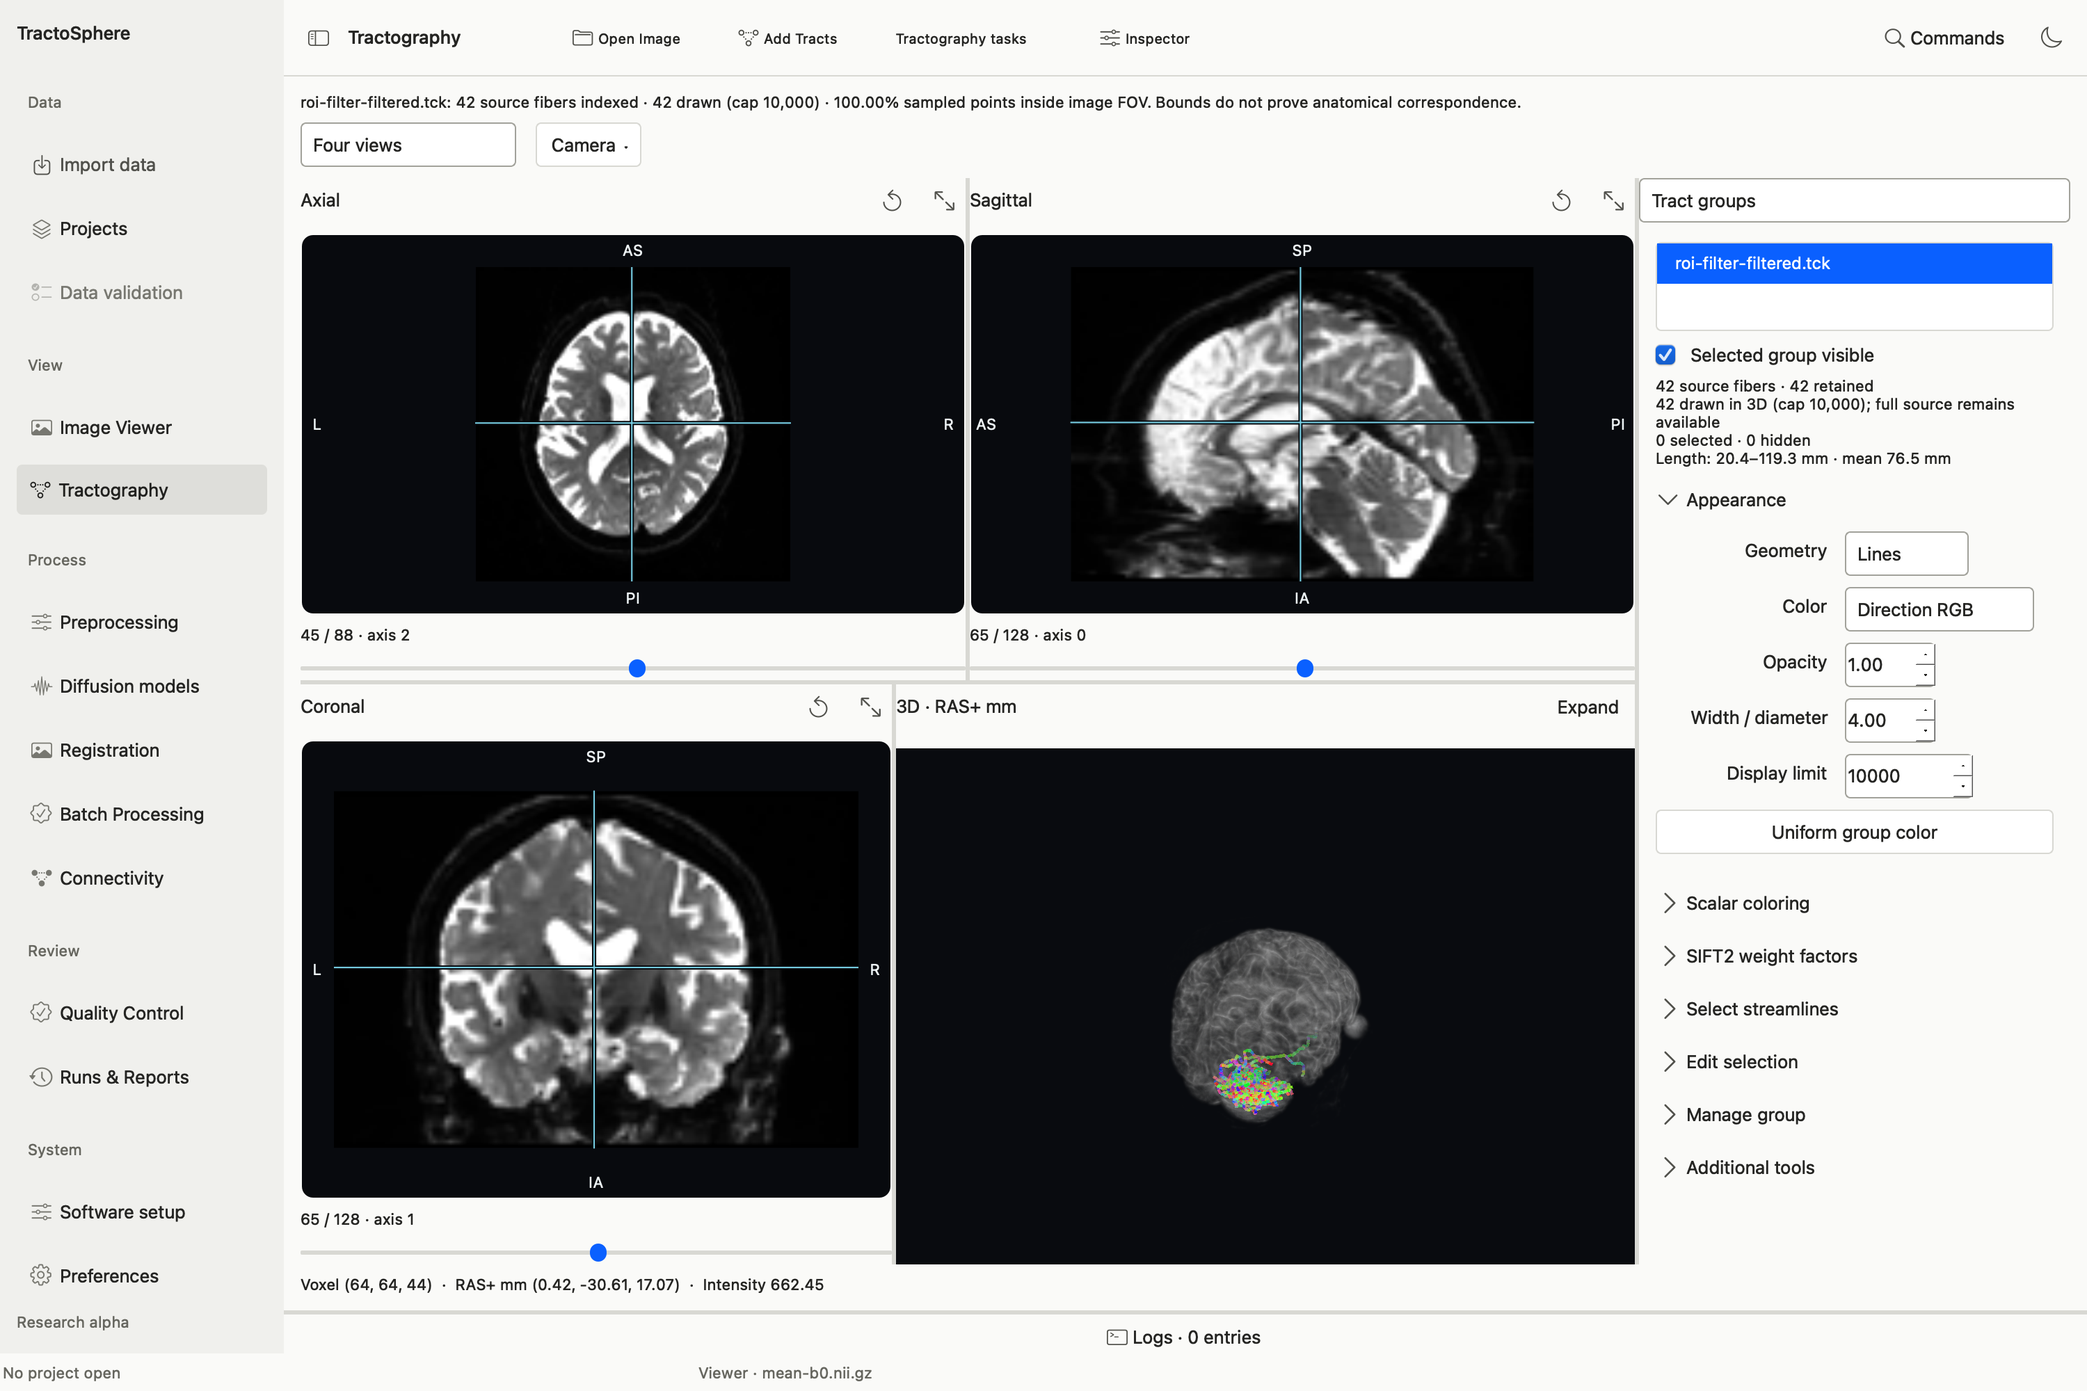
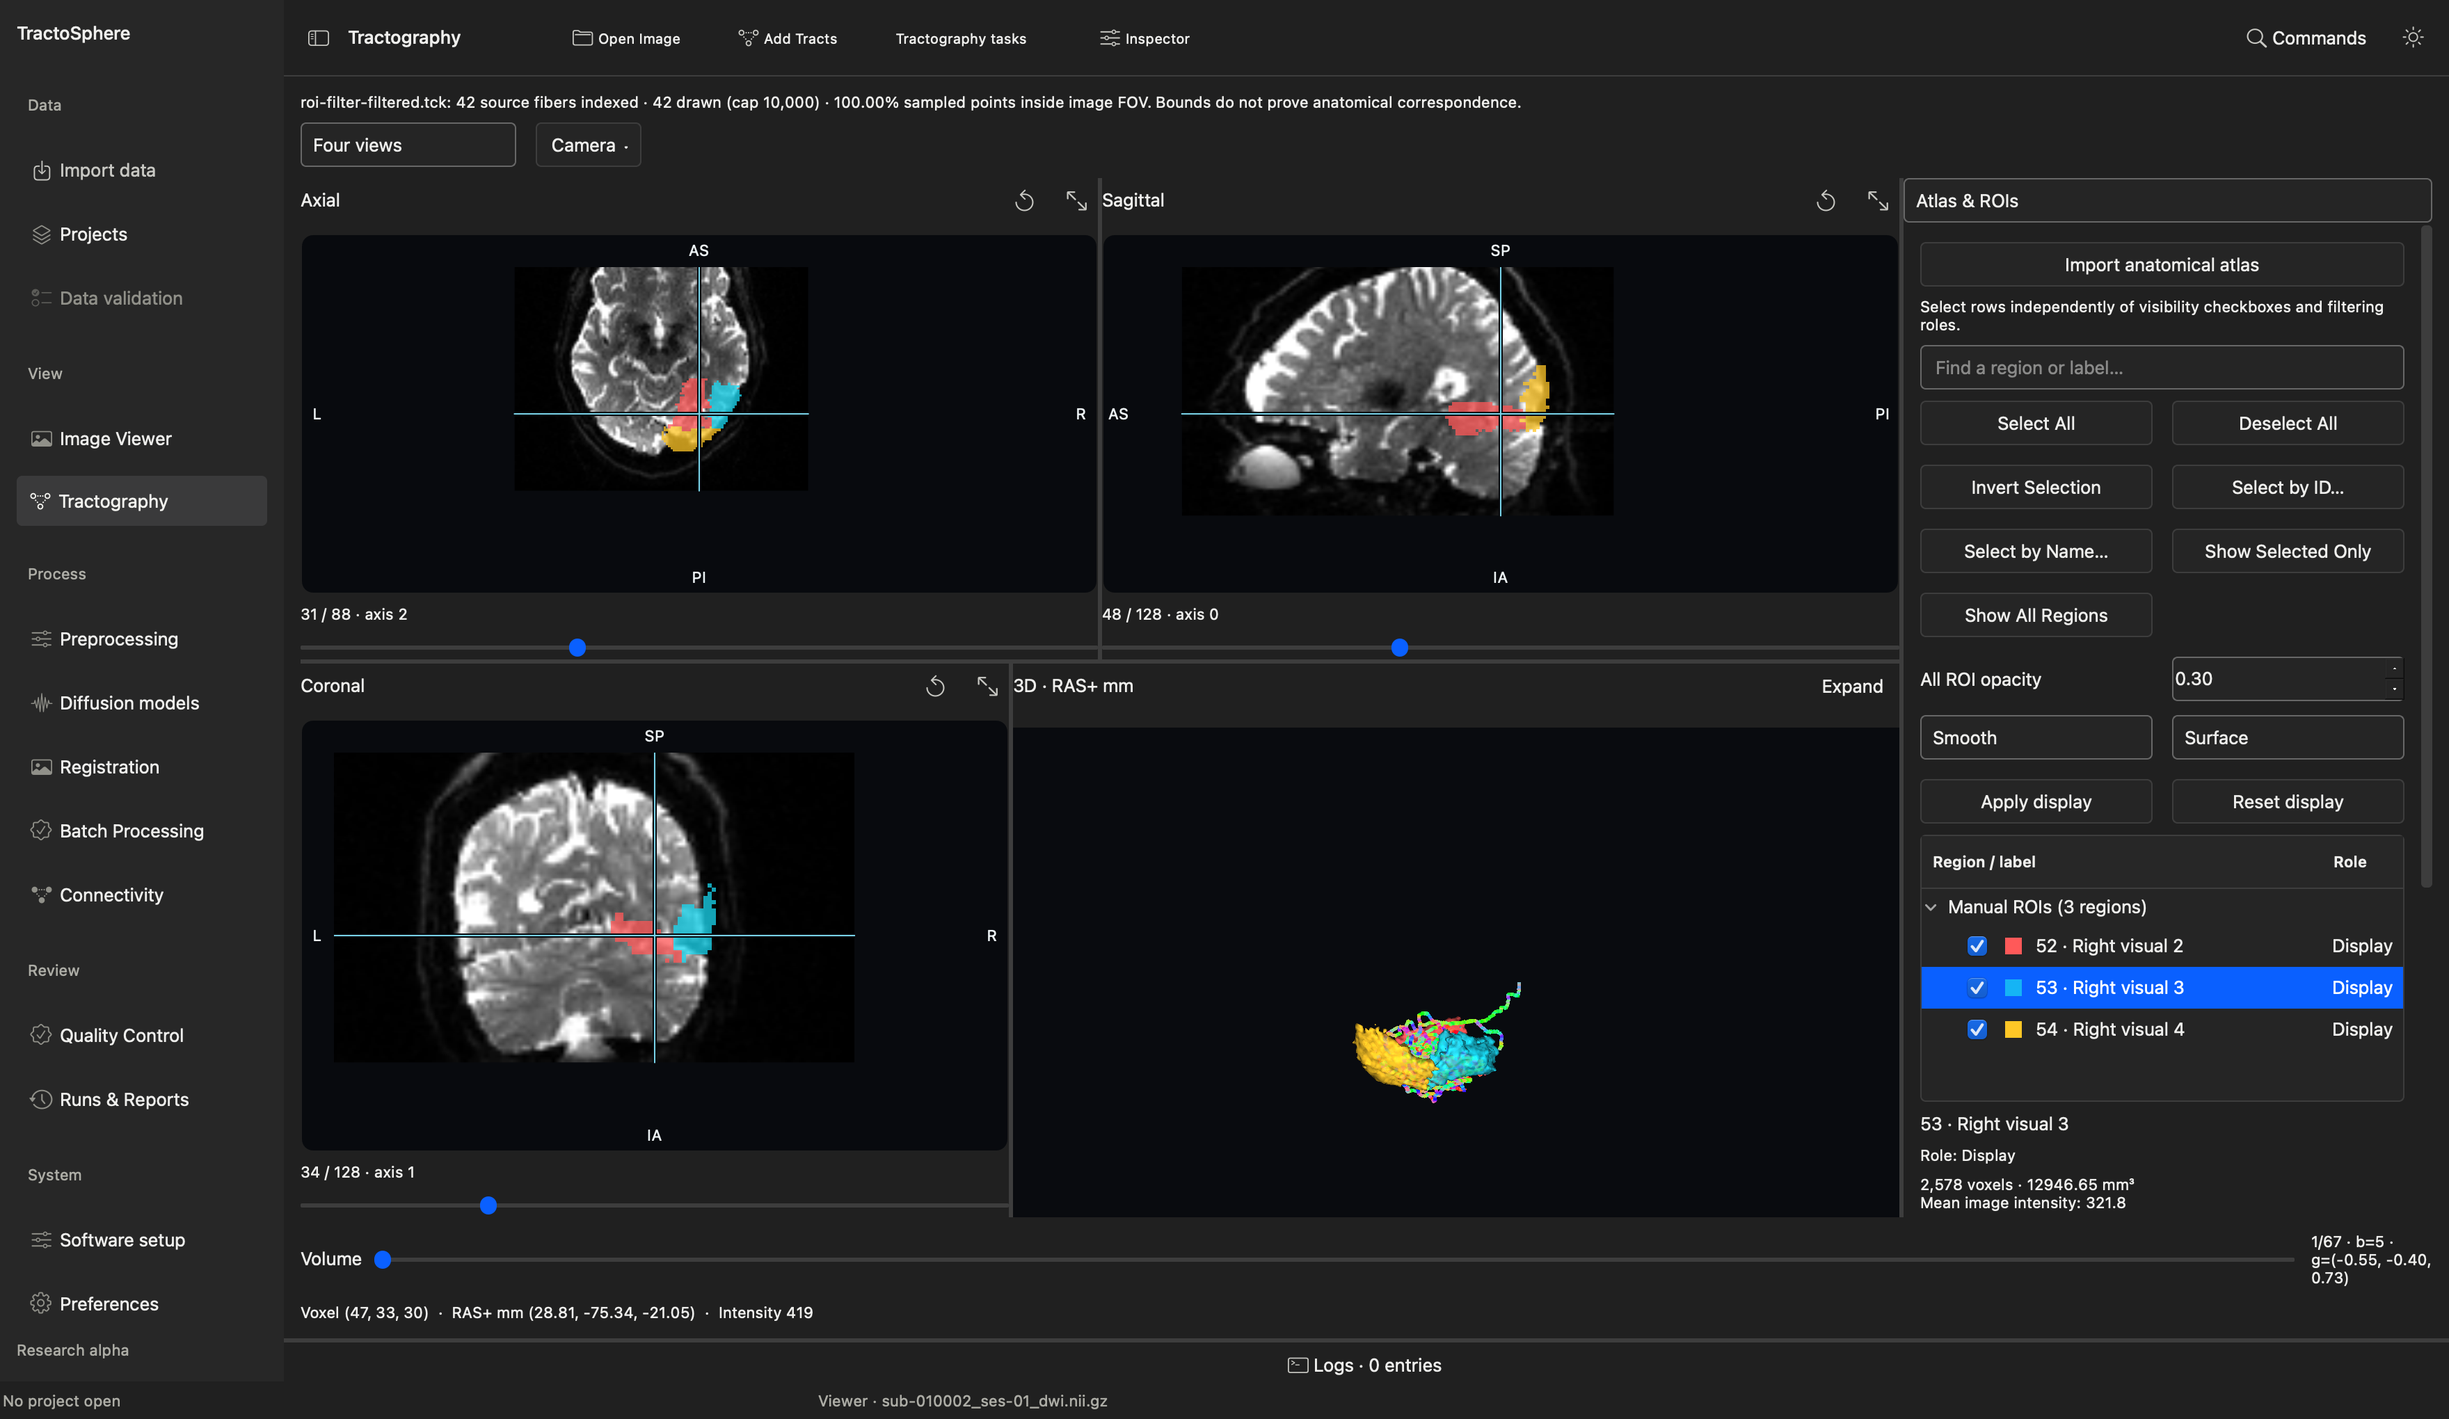
docs: show real ROI filtering on original DWI in 3D viewer

diff --git a/tests/gui/test_ds000221_real_gui_audit.py b/tests/gui/test_ds000221_real_gui_audit.py
@@ -2,6 +2,9 @@
 
 The app is driven through its own controls. Public source files stay outside the
 repository, and this test records technical outcomes without scientific approval.
+Set ROOT to the public dataset folder, DWI_STEM and REVERSE_EPI to paths relative
+to ROOT, and OUTPUT to an isolated writable folder using the prefixed environment
+variable names below. Participant paths remain outside the repository.
 """
 
 import json
@@ -16,6 +19,7 @@ from dmri_studio.core.execution import hash_file
 
 @pytest.mark.skipif(
     not os.environ.get("TRACTOSPHERE_DS000221_ROOT")
+    or not os.environ.get("TRACTOSPHERE_DS000221_DWI_STEM")
     or not os.environ.get("TRACTOSPHERE_DS000221_OUTPUT")
     or os.environ.get("QT_QPA_PLATFORM") != "cocoa",
     reason="Requires selected public data, an isolated output folder and native Cocoa GUI",
@@ -24,10 +28,10 @@ def test_ds000221_raw_denoise_gibbs_native_gui(window, qtbot):
     root = Path(os.environ["TRACTOSPHERE_DS000221_ROOT"])
     output_root = Path(os.environ["TRACTOSPHERE_DS000221_OUTPUT"])
     output_root.mkdir(parents=True, exist_ok=True)
-    stem = root / "sub-010002/ses-01/dwi/sub-010002_ses-01_dwi"
+    stem = root / os.environ["TRACTOSPHERE_DS000221_DWI_STEM"]
     source = Path(str(stem) + ".nii.gz")
     source_hash = hash_file(source)
-    evidence = {"dataset": "OpenNeuro ds000221 v1.0.0 sub-010002 ses-01"}
+    evidence = {"dataset": "OpenNeuro ds000221 v1.0.0 selected public acquisition"}
 
     page = window.page
     page.show_form()
@@ -50,7 +54,7 @@ def test_ds000221_raw_denoise_gibbs_native_gui(window, qtbot):
     window.focus_workflow()
     workflow = window.workflow
     workflow.template.setCurrentIndex(2)
-    workflow.source.setText("OpenNeuro ds000221 v1.0.0 raw BIDS acquisition, sub-010002 ses-01")
+    workflow.source.setText("OpenNeuro ds000221 v1.0.0 raw BIDS acquisition")
     workflow.confirm.click()
     workflow.selections["denoise"].setChecked(True)
     workflow.selections["gibbs"].setChecked(True)
@@ -87,6 +91,8 @@ def test_ds000221_raw_denoise_gibbs_native_gui(window, qtbot):
 
 @pytest.mark.skipif(
     not os.environ.get("TRACTOSPHERE_DS000221_ROOT")
+    or not os.environ.get("TRACTOSPHERE_DS000221_DWI_STEM")
+    or not os.environ.get("TRACTOSPHERE_DS000221_REVERSE_EPI")
     or not os.environ.get("TRACTOSPHERE_DS000221_OUTPUT")
     or not os.environ.get("TRACTOSPHERE_FSL_BIN")
     or os.environ.get("QT_QPA_PLATFORM") != "cocoa",
@@ -99,13 +105,9 @@ def test_ds000221_gibbs_to_topup_eddy_native_gui(window, qtbot):
     assert (parent / "native-manifest.json").exists(), "Run raw GUI preprocessing first"
     source = parent / "gibbs.nii"
     source_hash = hash_file(source)
-    original_json = (
-        root / "sub-010002/ses-01/dwi/sub-010002_ses-01_dwi.json"
-    )
-    reverse = (
-        root
-        / "sub-010002/ses-01/fmap/sub-010002_ses-01_acq-SEfmapDWI_dir-PA_epi.nii.gz"
-    )
+    stem = root / os.environ["TRACTOSPHERE_DS000221_DWI_STEM"]
+    original_json = Path(str(stem) + ".json")
+    reverse = root / os.environ["TRACTOSPHERE_DS000221_REVERSE_EPI"]
     evidence = {"source": str(source), "source_sha256": source_hash}
 
     page = window.page

diff --git a/docs/user-guide/tract-filtering.md b/docs/user-guide/tract-filtering.md
@@ -23,7 +23,9 @@ For an atlas, a label image contains many integer parcels. Do not import the ent
 4. Decide whether to check **Limit the number of retained streamlines**. The **Maximum retained streamlines** number applies only when that checkbox is checked; a value visible in the field is not an active limit by itself.
 5. Open **Choose pathway regions**. Select an imported mask from the searchable list. If none appears, choose **Import ROI mask…**, **Choose regions in Viewer…**, or **Use selected Viewer ROIs…**. Viewer selections become reviewed snapshots for the processing task; display color or visibility does not define a processing rule.
 
-![Current pathway-region controls with pass-through, avoid and ordered-waypoint lists](../screenshots/user-guide/25-filter-regions.png)
+![Guided filter with three real public-data ROI masks assigned to Must pass through](../screenshots/user-guide/25-filter-regions.png)
+
+*The populated **Must pass through (all)** list contains three separate masks derived from Schaefer parcels 52, 53 and 54. Their red, cyan and yellow swatches are display colors; the saved mask voxels define the filter.*
 
 6. With a mask selected, click **Must pass through**, **Must avoid**, or **Add waypoint**. Repeat for each ROI. Read the three lists below the buttons to verify each mask landed in the intended role. **Remove selected** removes one assignment. For waypoints, **Move up/Move down** changes their required order.
 7. Click **Inspect selected region in Viewer** when uncertain about location. Confirm it is the correct side, parcel and anatomical space. Then return to the filter task.
@@ -46,6 +48,11 @@ The guided **Must pass through** list uses **ALL**, not “any one of these.” 
 Use this route when your starting regions are labels in one original registered atlas, such as three named parcels. First open the exact reference image and tractogram in **Tractography Viewer**, then load the original discrete-label atlas with its known label table. Select the relevant atlas regions and use **Filter using original Viewer atlas (Include ANY / ALL)…** from the guided filter task, or the Viewer's corresponding filter action. The dialog displays the **full source count** and original atlas path/IDs; it does not filter only the 10,000 tracks currently drawn.
 
 1. Search the original atlas region list by **name or ID**. Assign selected regions to **Must pass through** or **Must avoid**. Check the included and excluded lists; an ID is only meaningful for this exact atlas version.
+
+![Native original-atlas filter dialog with parcels 52, 53 and 54 assigned as required regions](../screenshots/user-guide/30-native-three-parcel-filter.png)
+
+*The native atlas dialog shows the exact three original parcel IDs in **Must pass through**. The screenshot is scrolled to the region controls; the source, atlas and command evidence are above and below this position in the same dialog.*
+
 2. Choose **Inclusion rule**: **OR** means any included parcel, **AND** means all included parcels, and **ORDERED** means the listed parcels in saved vertex order. Use **Move up/Move down** to arrange ORDERED IDs. Optionally choose **Test endpoints only** for a different endpoint question; the app blocks its combination with ORDERED.
 3. Provide the required subject/space and registration evidence if the dialog asks for it. A historical spatial declaration or equal image grids cannot substitute for native review of atlas-to-reference correspondence.
 4. Choose an unused local output parent and **Preview command**. The plan creates exact binary mask snapshots from the original atlas labels and shows the full-source `tckedit` command. Inspect the rule, source, IDs, masks and free-space check; then mark the approval checkbox and **Run filter**.
@@ -55,14 +62,18 @@ The native MRtrix filtering checks saved streamline vertices against ROI voxels.
 
 ## Inspect the result over the brain
 
-Open the same verified reference NIfTI first, then the filtered TCK. Choose **Four views** so axial, coronal, sagittal and 3D views are visible together. Select the filtered tract group in the Inspector; check the retained count and compare it with the full source. If the 3D panel shows tracks without a brain outline, open the intended NIfTI again and adjust **Volume rendering** or a suitable anatomical surface. Those display changes do not alter the filter. The **Display limit** may show only a subset in 3D; the processing plan and QC use the complete source file.
+Open an image from the same verified participant and coordinate space, then the filtered TCK. For this public-data example, the image shown below is the **original DWI NIfTI**, with **volume 1 of 67** selected (its supplied b-value is 5 s/mm², effectively a low-b image). The processing reference was the verified mean low-b image derived from this series. The original DWI and that reference have the same voxel grid and affine. Matching geometry alone does not establish the scientific association; review the run's source and registration evidence.
 
-![Current GUI showing the public-data 42-track result over its mean low-b reference in four views](../screenshots/user-guide/28-filtered-42-on-brain.png)
+Choose **Four views** so axial, coronal, sagittal and 3D views are visible together. Import the filter's three saved binary ROI masks as display ROIs, turn their visibility on in **Atlas & ROIs**, and move the linked crosshair through the regions. The example captures place each crosshair at the center of its slice panel; panning the display does not move the data or masks. The masks are displayed as independent ROIs, which is why the Inspector groups them under **Manual ROIs**. The actual native filter used the original registered discrete atlas.
 
-*A saved public-data filter result is open over the matching mean low-b image. The tract group reports 42 source fibers and 42 drawn; this is the already filtered TCK, so open the original full source separately when comparing retention. The screenshot shows viewing, not a biological pathway approval.*
+Select the filtered tract group in **Tract groups** to inspect its retained count and compare it with the full source. The **Display limit** may show only a subset in 3D; the processing plan and QC use the complete source file.
 
-![The same filtered tracks and anatomical volume in the current 3D Viewer](../screenshots/user-guide/29-filtered-42-3d.png)
+![Four centered views of the original public DWI volume with three colored ROI masks and filtered tracks](../screenshots/user-guide/28-filtered-42-on-brain.png)
 
-*Switch the layout to **3D scene** to enlarge the context. Here the base image is ray cast at low opacity and tract line width is increased to make the relationship visible; neither setting changes the image or tracks on disk.*
+*The original public DWI image is visible in the anatomical panels. Red, cyan and yellow show the exact saved masks for parcels 52–54; the 42 colored paths come from the filtered TCK. The centered axes are display crosshairs. Reopen the original 10,000-track source separately to compare retention.*
+
+![Original public DWI data volume visible in the 3D Viewer beneath three ROIs and 42 filtered streamlines](../screenshots/user-guide/29-filtered-42-3d.png)
+
+*Switch the layout to **3D scene**, enable the **axial anatomical plane**, choose the low-b volume and set a **Superior** camera view. This shows the actual DWI slice inside the 3D Viewer, with all three ROI surfaces and the retained streamlines. Adjust slice opacity, camera zoom and tract width for readability; these are display settings and do not change the image, ROI masks or tracks on disk.*
 
 If zero tracks remain, check ROI location and source/reference identity, whether you accidentally chose ALL instead of ANY, whether endpoints-only or order was intended, and the QC's ROI observations. Do not enlarge or move a mask only to make a nonzero result without documenting a new scientific ROI decision.

diff --git a/docs/PHASE5_IMPLEMENTATION_AND_HANDOFF.md b/docs/PHASE5_IMPLEMENTATION_AND_HANDOFF.md
@@ -34,7 +34,7 @@ Direct registration products now open only from a technically validated manifest
 
 ## Verification status and boundaries
 
-The 13 tests in `tests/test_registration.py` passed with local FSL/MRtrix3 paths, including real synthetic FLIRT, EPI/T1, transform, resampling, reference and QC operations; they passed again at `5c30ded`. The broad offscreen cross-phase GUI command `PYTHONPATH=src QT_QPA_PLATFORM=offscreen OPENBLAS_NUM_THREADS=1 FSLDIR=/Users/kulkarnikartikeya/fsl ../application/.venv/bin/python -m pytest -q tests/gui/test_registration_guided.py tests/gui/test_scientific_planning.py tests/gui/test_batch_guided.py tests/gui/test_tracking_guided.py tests/gui/test_phase2_batch_refresh.py tests/gui/test_dependency_setup.py tests/gui/test_scientific_software_settings.py -k 'not scientific_routes_independent_and_preserve_scene and not first_run_viewer_only_during_scan_and_repeat_suppressed' --tb=short` returned **69 passed, 2 deselected in 118.95 s** at the first implementation checkpoint. The two deselected cases instantiate native VTK. A prior cross-phase run was **66 passed, 1 failed, 2 deselected**: that failure identified a genuine typed-task precedence regression, which was fixed and included in the passing rerun. After the minimum-width follow-up, relevant Registration/settings/planning GUI tests returned **30 passed, 1 deselected**, and Batch/Tractography/Phase 2 refresh tests returned **33 passed**. `tests/cli` returned **34 passed** and `tests/core/test_batch_software_defaults.py` **2 passed**. Ruff format/check and `git diff --check` passed for the modified code. These runs establish behavior on synthetic, identified inputs; they are not anatomical validation of human data.
+The 13 tests in `tests/test_registration.py` passed with local FSL/MRtrix3 paths, including real synthetic FLIRT, EPI/T1, transform, resampling, reference and QC operations; they passed again at `5c30ded`. The broad offscreen cross-phase GUI command `PYTHONPATH=src QT_QPA_PLATFORM=offscreen OPENBLAS_NUM_THREADS=1 FSLDIR=/path/to/fsl ../application/.venv/bin/python -m pytest -q tests/gui/test_registration_guided.py tests/gui/test_scientific_planning.py tests/gui/test_batch_guided.py tests/gui/test_tracking_guided.py tests/gui/test_phase2_batch_refresh.py tests/gui/test_dependency_setup.py tests/gui/test_scientific_software_settings.py -k 'not scientific_routes_independent_and_preserve_scene and not first_run_viewer_only_during_scan_and_repeat_suppressed' --tb=short` returned **69 passed, 2 deselected in 118.95 s** at the first implementation checkpoint. The placeholder FSL path represents the local installation used for that run. The two deselected cases instantiate native VTK. A prior cross-phase run was **66 passed, 1 failed, 2 deselected**: that failure identified a genuine typed-task precedence regression, which was fixed and included in the passing rerun. After the minimum-width follow-up, relevant Registration/settings/planning GUI tests returned **30 passed, 1 deselected**, and Batch/Tractography/Phase 2 refresh tests returned **33 passed**. `tests/cli` returned **34 passed** and `tests/core/test_batch_software_defaults.py` **2 passed**. Ruff format/check and `git diff --check` passed for the modified code. These runs establish behavior on synthetic, identified inputs; they are not anatomical validation of human data.
 
 The core BatchRunner registration suite attempted in the Codex sandbox had **2 failures at `psutil.process_iter` → macOS `sysctl` permission denial**, before execution; its other selected core/CLI tests were **4 passed**. An offscreen suite entered native VTK construction and exited 139 at `QVTKRenderWindowInteractor`, the restriction documented in prior phases. These environmental failures were not changed into scientific acceptance. Normal-Terminal results below supersede the incomplete sandbox check for the selected BatchRunner paths.
 
